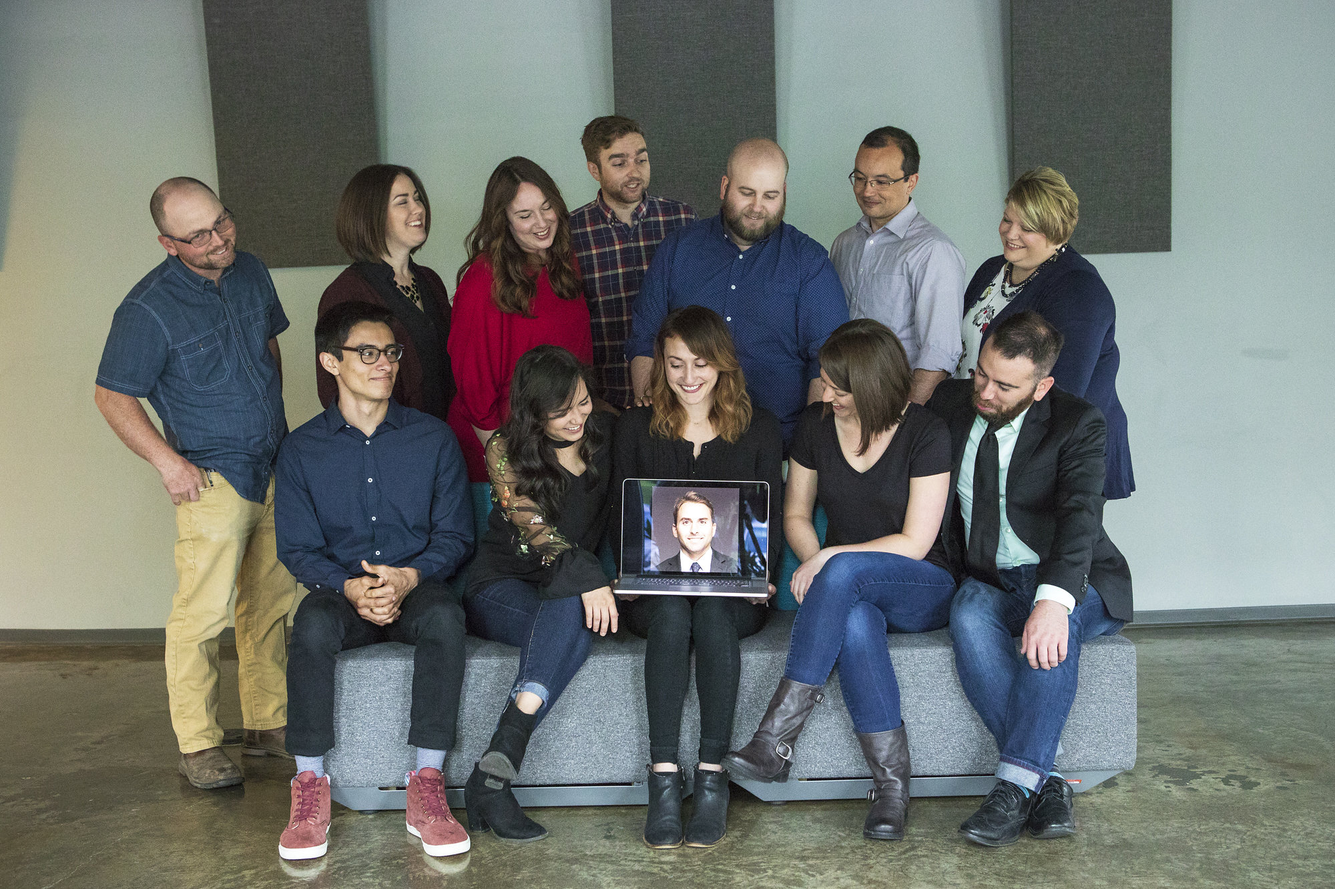
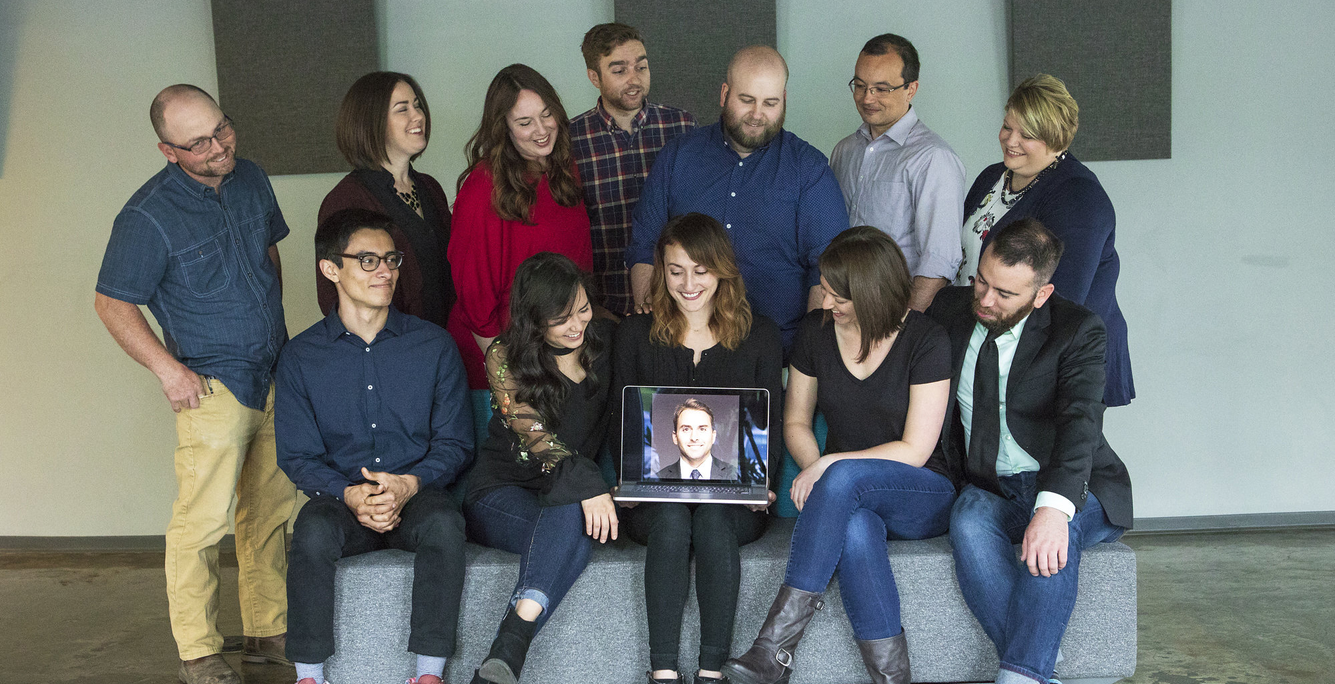
finished layout and added class images

diff --git a/index.html b/index.html
@@ -11,7 +11,122 @@
     <title>Cohort E6 | Nashville Software School</title>
   </head>
   <body>
-        <img src="/img/group/group-silly1.jpg" class="img-fluid" alt="Responsive image">
+    <!-- Hero Section -->
+    <section id="hero" class="hero hero-home bg-gray">
+      <div class="container"></div>
+        <div class="row d-flex">
+          <div class="col-lg-12 order-1 order-lg-2">
+            <img src="/img/group/group-silly1.jpg" alt="Responsive img" class="img-fluid">
+          </div>
+        </div> 
+        <div class="row d-flex justify-content-center"> 
+            <div class="col-lg-8 text-center">
+              <h2 class="h3 mb-5">Meet our class</h2>
+            </div>     
+    </section>
+    <!-- Student Section -->
+    <section class="work-section">
+        <div class="container content">
+            <article>
+              <div class="row">
+                  <div class="col-xs-12 col-sm-12 col-md-4 col-lg-4">
+                      <span class="student1">
+                          <img src="/img/individual-serious/Gina.jpg" alt="Responsive img" class="img-fluid">
+                      </span>
+                      <h5 class="text-left">Gina Antonini</h5>
+                      <p class="primary-font">Student1</p>
+                  </div>
+                  <div class="col-xs-12 col-sm-12 col-md-4 col-lg-4">
+                      <span class="student2">
+                          <img src="/img/individual-serious/jessica.jpg" alt="Responsive img" class="img-fluid">
+                      </span>
+                      <h5 class="text-left">Jessica Brawner</h5>
+                      <p class="primary-font">student2</p>
+                  </div>
+                  <div class="col-xs-12 col-sm-12 col-md-4 col-lg-4">
+                      <span class="student3">
+                          <img src="/img/individual-serious/waamber.jpg" alt="Responsive img" class="img-fluid">
+                      </span>
+                      <h5 class="text-left">Amber Stuart</h5>
+                      <p class="primary-font">student3</p>
+                  </div>
+                  <div class="col-xs-12 col-sm-12 col-md-4 col-lg-4">
+                      <span class="student4">
+                          <img src="/img/individual-serious/adam.jpg" alt="Responsive img" class="img-fluid">
+                      </span>
+                      <h5 class="text-left">Adam Smith</h5>
+                      <p class="primary-font">student4</p>
+                  </div>
+                  <div class="col-xs-12 col-sm-12 col-md-4 col-lg-4">
+                      <span class="student5">
+                          <img src="/img/individual-serious/alex.jpg" alt="Responsive img" class="img-fluid">
+                      </span>
+                      <h5 class="text-left">Alex Sanchez</h5>
+                      <p class="primary-font">student5</p>
+                  </div>
+                  <div class="col-xs-12 col-sm-12 col-md-4 col-lg-4">
+                      <span class="student6">
+                          <img src="/img/individual-serious/brooke.jpg" alt="Responsive img" class="img-fluid">
+                      </span>
+                      <h5 class="text-left">Brooke Lewis</h5>
+                      <p class="primary-font">student6</p>
+                  </div>
+                  <div class="col-xs-12 col-sm-12 col-md-4 col-lg-4">
+                      <span class="student7">
+                          <img src="/img/individual-serious/caitlin.jpg" alt="Responsive img" class="img-fluid">
+                      </span>
+                      <h5 class="text-left">Brooke Lewis</h5>
+                      <p class="primary-font">student7</p>
+                  </div>
+                  <div class="col-xs-12 col-sm-12 col-md-4 col-lg-4">
+                      <span class="student8">
+                          <img src="/img/individual-serious/david.jpg" alt="Responsive img" class="img-fluid">
+                      </span>
+                      <h5 class="text-left">David Dassau</h5>
+                      <p class="primary-font">student8</p>
+                  </div>
+                  <div class="col-xs-12 col-sm-12 col-md-4 col-lg-4">
+                      <span class="student9">
+                          <img src="/img/individual-serious/kelly.jpg" alt="Responsive img" class="img-fluid">
+                      </span>
+                      <h5 class="text-left">Kelly Stoops</h5>
+                      <p class="primary-font">student9</p>
+                  </div>
+                  <div class="col-xs-12 col-sm-12 col-md-4 col-lg-4">
+                      <span class="student10">
+                          <img src="/img/individual-serious/ken.jpg" alt="Responsive img" class="img-fluid">
+                      </span>
+                      <h5 class="text-left">Ken Lewis</h5>
+                      <p class="primary-font">student10</p>
+                  </div>
+                  <div class="col-xs-12 col-sm-12 col-md-4 col-lg-4">
+                      <span class="student11">
+                          <img src="/img/individual-serious/matt.jpg" alt="Responsive img" class="img-fluid">
+                      </span>
+                      <h5 class="text-left">Matt Hensley</h5>
+                      <p class="primary-font">student11</p>
+                  </div>
+                  <div class="col-xs-12 col-sm-12 col-md-4 col-lg-4">
+                      <span class="student12">
+                        <!-- need photo for gib -->
+                          <img src="..." alt="Responsive img" class="img-fluid">
+                      </span>
+                      <h5 class="text-left">Gib Bowden</h5>
+                      <p class="primary-font">student12</p>
+                  </div>
+                  <div class="col-xs-12 col-sm-12 col-md-4 col-lg-4">
+                  <span class="student13">
+                    <!-- need photo for ben  -->
+                      <img src="..." alt="Responsive img" class="img-fluid">
+                  </span>
+                  <h5 class="text-left">Ben Harrington</h5>
+                  <p class="primary-font">student13</p>
+              </div>
+              </div>
+            </article>
+          </div>
+    </section>
+
 
     <!-- Optional JavaScript -->
     <!-- jQuery first, then Popper.js, then Bootstrap JS -->
